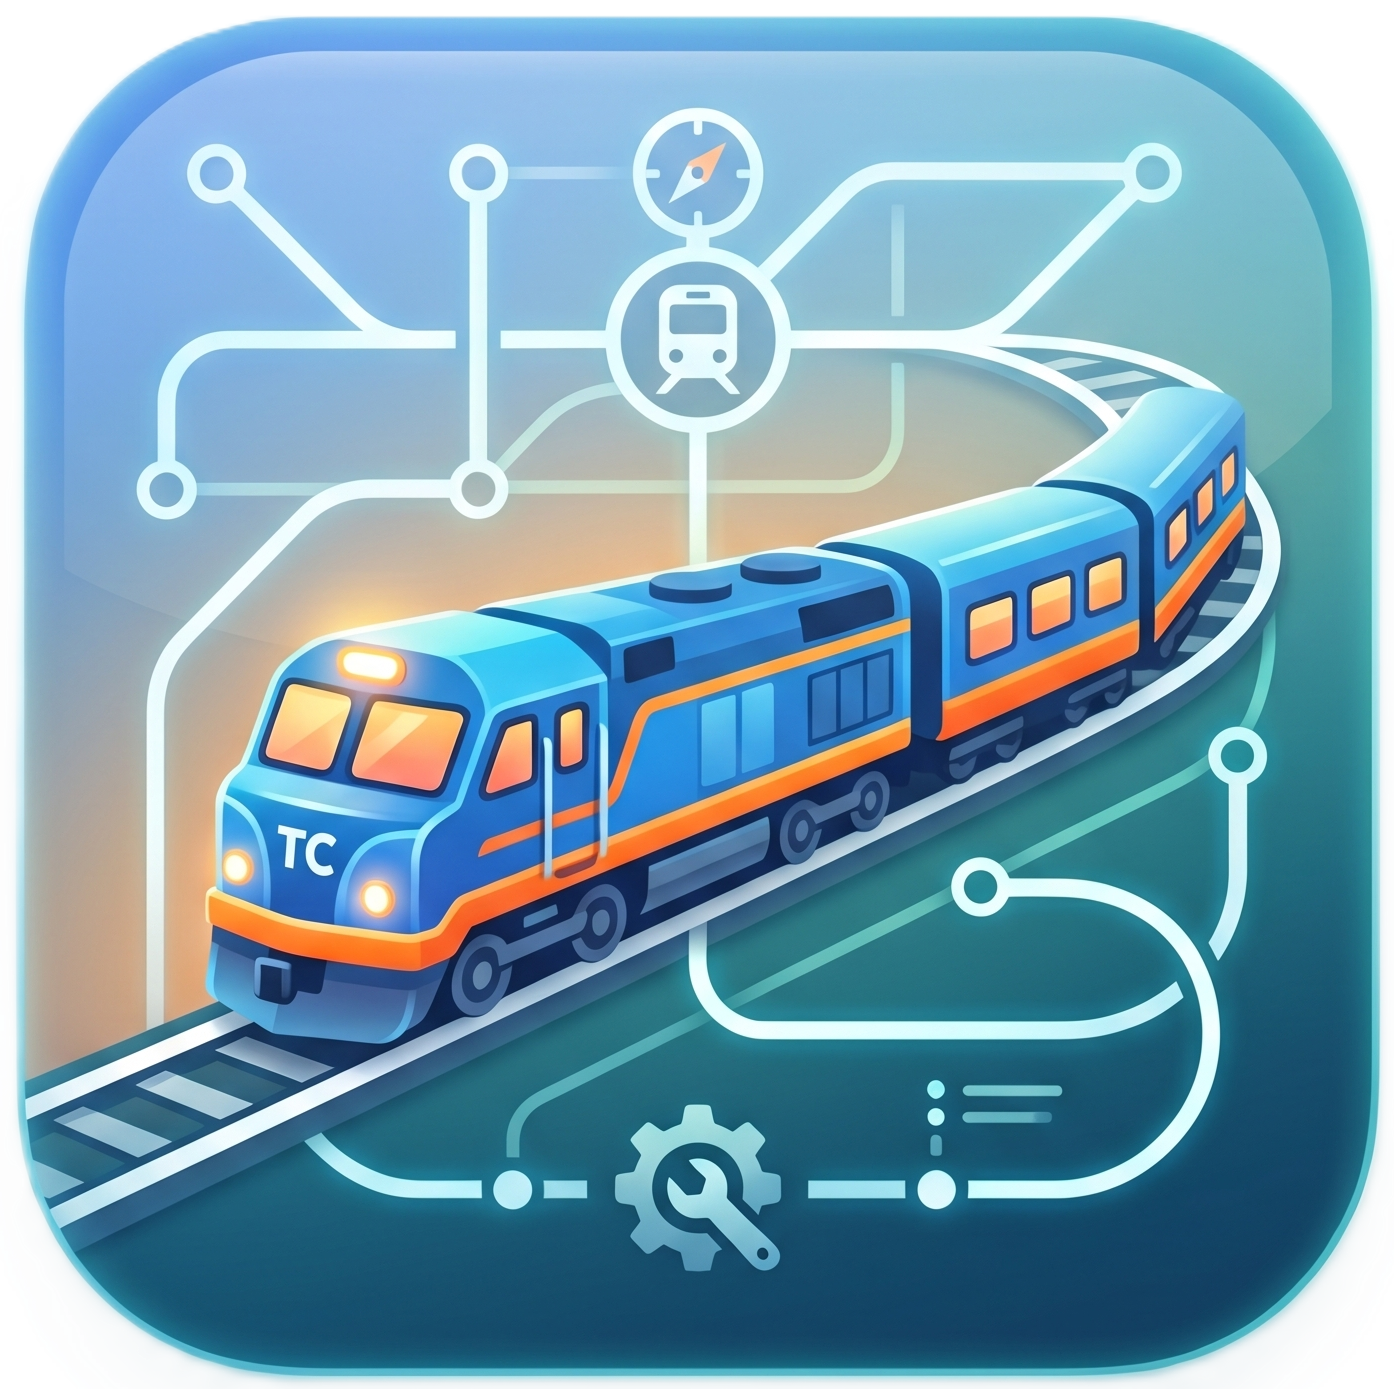
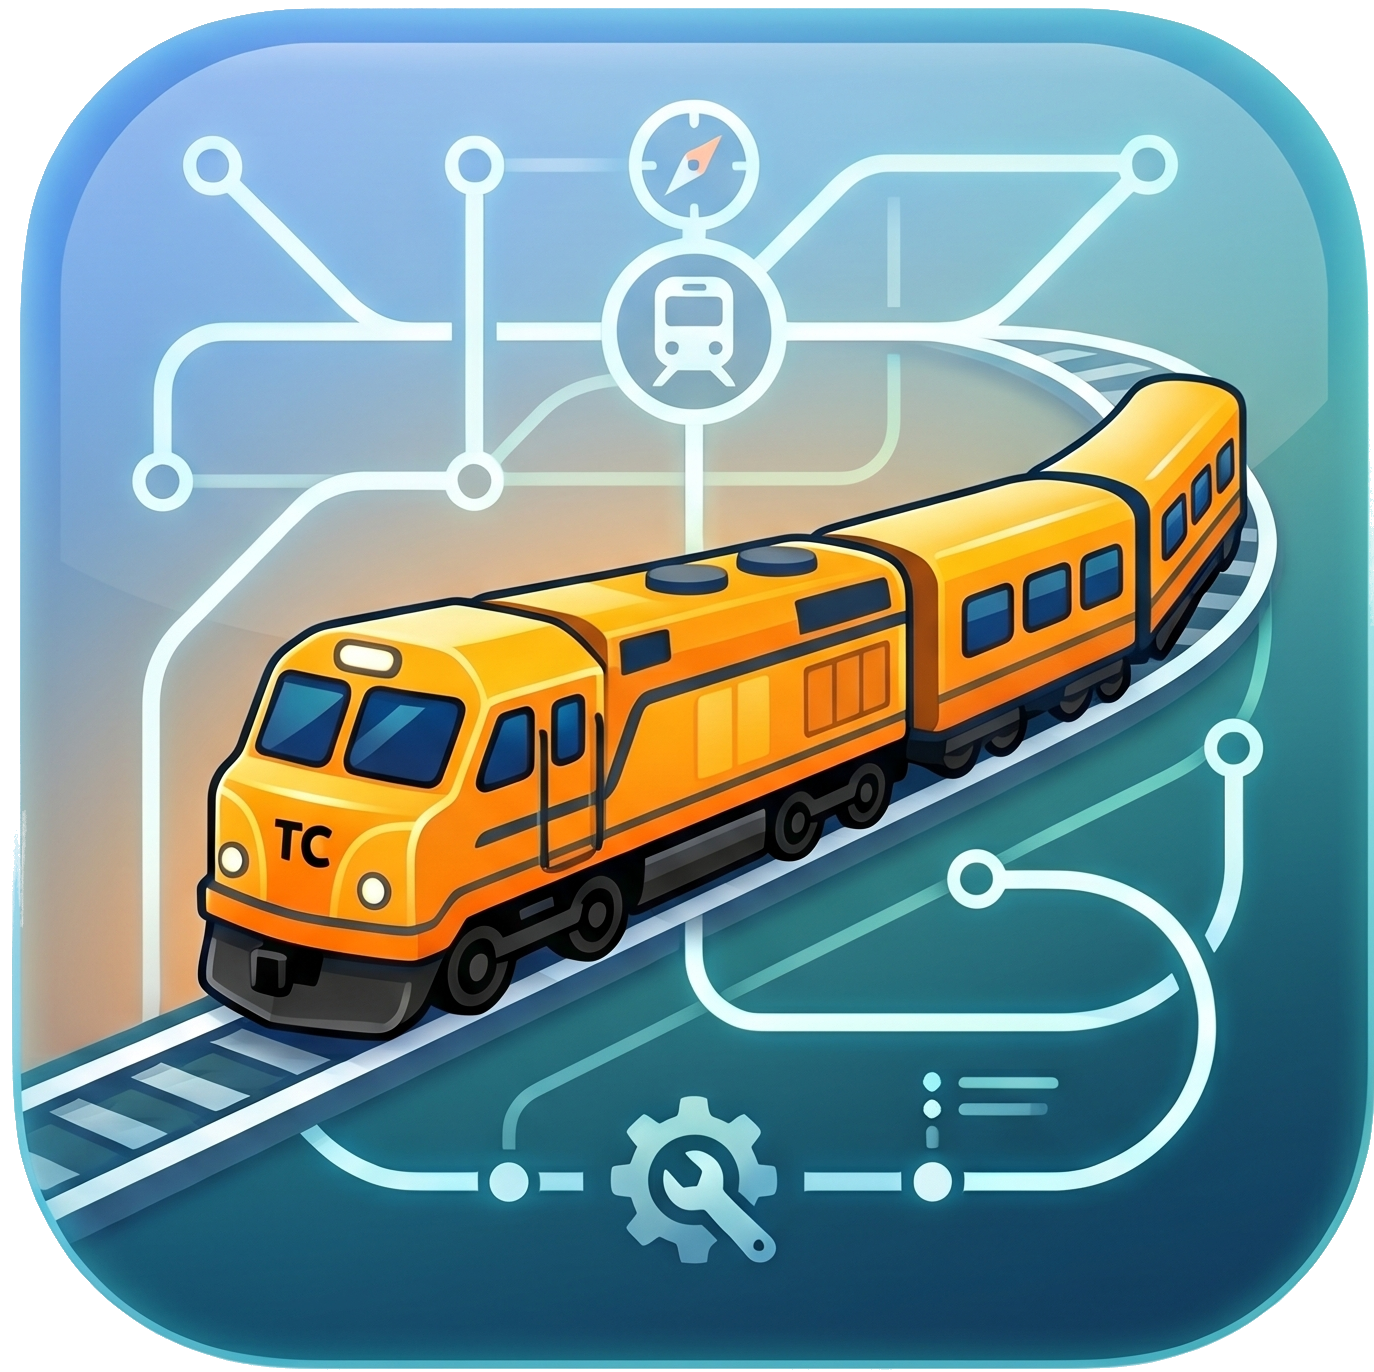
m

diff --git a/readme.md b/readme.md
@@ -1,0 +1,113 @@
+# 🚂 AiguillageManager — TCO Wi-Fi & Décodeur DCC pour Aiguillages
+
+**ESP32** pilotant 6 aiguillages à double solénoïde via une interface Web tactile et/ou commandes DCC (Roco MultiMAUS, Lenz, etc.).
+
+---
+
+## ✨ Fonctionnalités
+
+### Interface Web (TCO tactile)
+- Design glassmorphism, fond de plan personnalisable
+- Mode Utilisateur / Mode Configuration
+- Drag & drop des switchs, masquage, redimensionnement
+- Zoom ×2 à ×10, zoom libre
+- Panneau **Historique** des actions
+- Panneau **DCC log** : toutes les commandes DCC reçues, avec filtre "aiguillages uniquement"
+- **Gyrophare rouge** et sirène 3s quand le signal DCC est perdu
+- Badge DCC OK / KO / Arrêt Urgence 🚨
+- Bouton **Muette** 🔊/🔇 l'alerte sonore
+- Clic sur "DCC OK" → historique DCC ; clic sur 📜 → historique actions
+
+### DCC
+- Détection et décodage des adresses d'aiguillage (formule universelle `((addr-33016)/256)*4 + ((addr-33016)%256)/2 + 1`)
+- Mapping configurable : chaque switch peut répondre à n'importe quelle adresse DCC (1-99)
+- Ordres d'ouverture / fermeture avec sons distincts (notes ascendantes/descendantes)
+- Arrêt d'urgence (overlay rouge + badge clignotant + son)
+- `logdcc(true/false)` — log brut en console
+- `logPin(true/false)` — monitoring de la pin DCC
+
+### WiFi
+- Connexion non-bloquante (le serveur démarre sans attendre le WiFi)
+- Reconnexion automatique
+- LED interne clignote si WiFi perdu
+- OTA (mise à jour firmware et filesystem par WiFi)
+- Heartbeat toutes les 5s avec timeout 15s (détection de perte de connexion)
+
+### Console navigateur
+| Commande | Description |
+|----------|-------------|
+| `help()` | Affiche l'aide |
+| `logdcc(true/false)` | Log DCC brut dans la console |
+| `logPin(true/false)` | Active la surveillance pin DCC |
+| `cancel_detect_dcc_off(true/false)` | Ignore la perte de signal DCC |
+
+---
+
+## 🛠️ Hardware
+
+- ESP32 (Wemos D1 mini32)
+- Optocoupleur 6N137 pour isolation DCC
+- 12 MOSFETs pour piloter 6 aiguillages double-bobine
+- Protection anti-surchauffe (impulsions 500ms)
+- Synchronisation physique au démarrage (impulsions espacées 600ms)
+
+---
+
+## 🔐 Fichier `secrets.h` (obligatoire)
+
+Avant de compiler, crée le fichier `src/secrets.h` avec tes identifiants WiFi :
+
+```cpp
+#ifndef SECRETS_H
+#define SECRETS_H
+
+#define WIFI_SSID "ton_ssid"
+#define WIFI_PASSWORD "ton_mot_de_passe"
+
+#endif
+```
+
+Ce fichier est dans `.gitignore` → pas de risque de l'uploader sur GitHub.
+
+---
+
+## 📦 Upload & Flash
+
+### Première fois (filaire USB)
+```bash
+pio run -t upload           # Flash firmware
+pio run --target uploadfs   # Upload filesystem (HTML/CSS/JS/images)
+```
+
+### OTA (mise à jour WiFi)
+```bash
+pio run -t upload --upload-port AiguillageManager.local
+pio run --target uploadfs --upload-port AiguillageManager.local
+```
+
+---
+
+## 🔧 Configuration
+
+### Attribution d'adresse DCC
+1. Passer en **Mode Configuration**
+2. Cliquer droit sur un switch → "Attribuer une adresse d'aiguillage"
+3. Saisir un numéro (1-99)
+4. Le numéro s'affiche sur le switch
+
+### Plan de fond
+1. Mode Configuration → "Plan" → Upload/Photo
+2. L'image est redimensionnée à 1920px max et stockée sur l'ESP
+
+---
+
+## 🔄 Historique des versions
+
+- **v1.15+** : Mapping DCC configurable, panneau DCC log, gyrophare, sirène, OTA, heartbeat, badges DCC OK/KO/Urgence
+
+---
+
+## 🧩 Licence & Crédits
+
+Développé sous supervision humaine, code généré par IA.
+Librairies : NmraDcc, ESPAsyncWebServer, ArduinoJson.